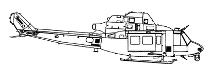
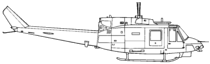
uh1 new sprite

diff --git a/shilka2/Aircrafts.cs b/shilka2/Aircrafts.cs
@@ -595,23 +595,23 @@ namespace shilka2
             new AircraftsType {
                 aircraftType = "uh1",
                 aircraftName = "UH-1 Iroquois",
-                size = new int[] { 210, 65 },
+                size = new int[] { 210, 64 },
                 speed = 5,
                 maxAltitude = maxAltitudeForHelicopters,
                 price = 5,
                 elements = new List<DynamicElement> {
                     new DynamicElement {
                         elementName = "prop_main",
-                        y = -13,
-                        x_left = -39,
+                        y = -16,
+                        x_left = -41,
                         x_right = 25,
                         movingType = DynamicElement.MovingType.xRotate,
                     },
                     new DynamicElement {
                         elementName = "i_suppl",
-                        y = -11,
-                        x_left = 175,
-                        x_right = -12,
+                        y = -16,
+                        x_left = 178,
+                        x_right = -14,
                         movingType = DynamicElement.MovingType.zRotate
                     }
                 }
